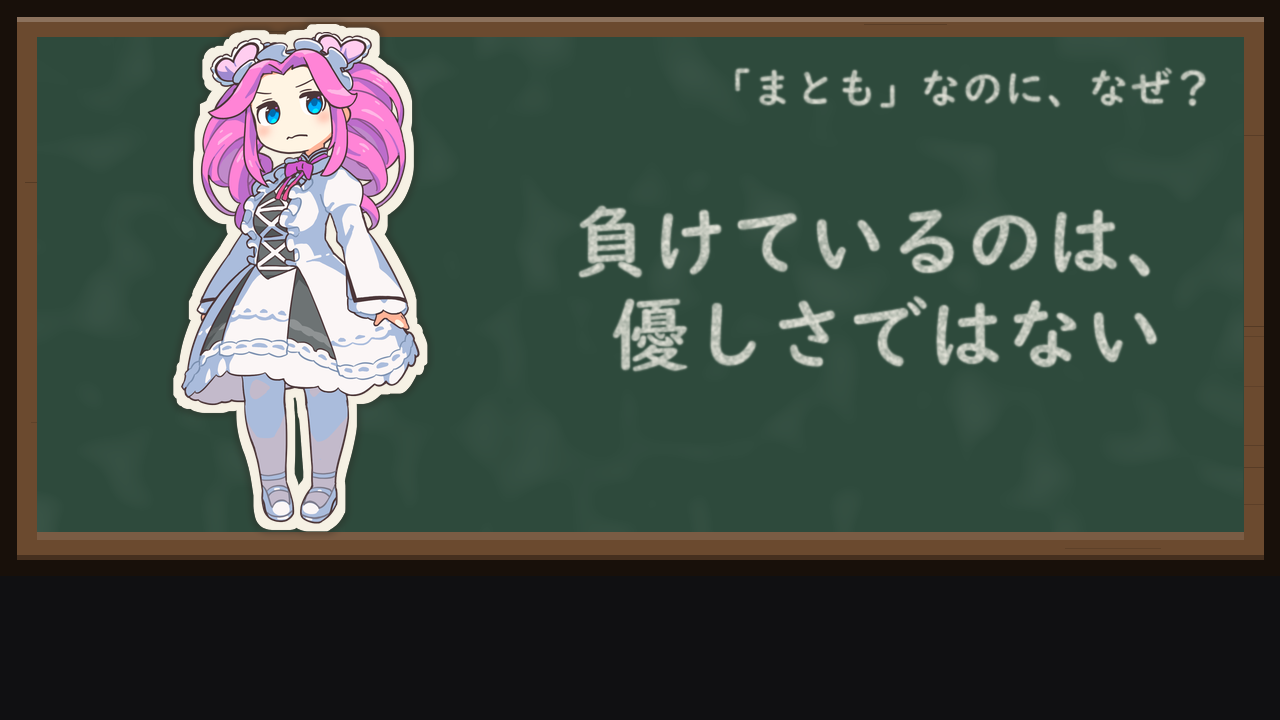
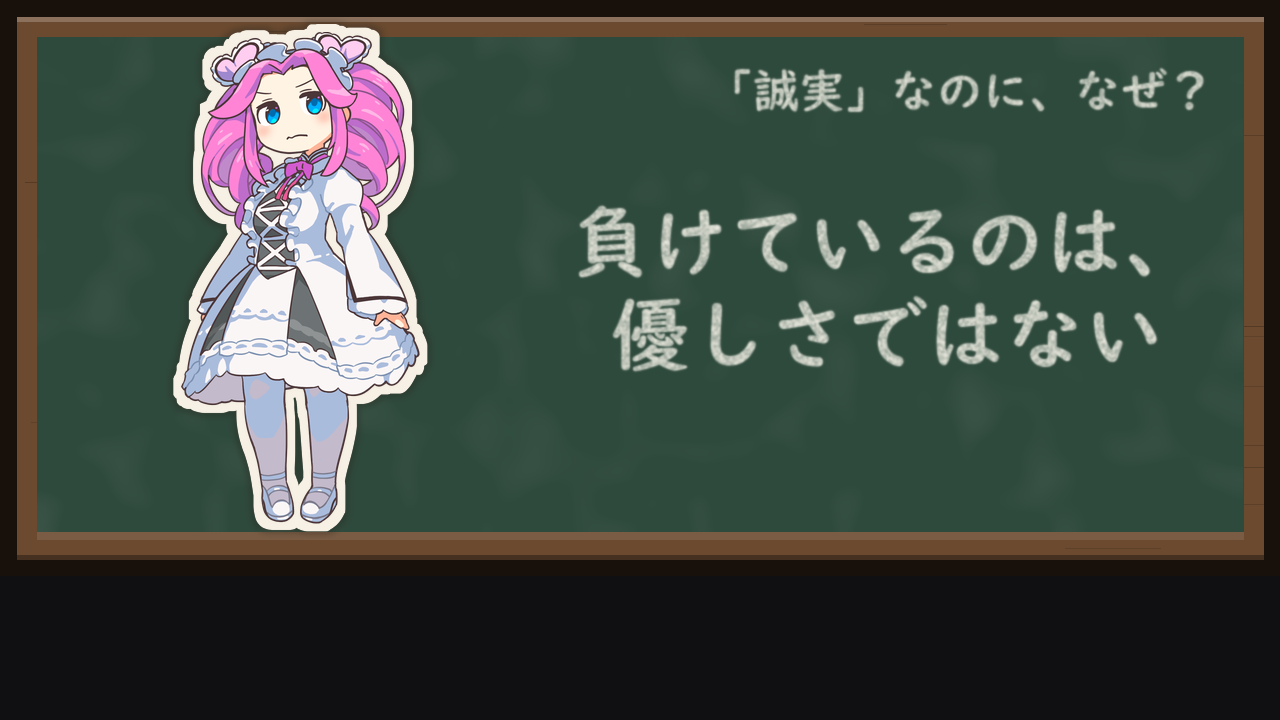
誠実な男性: 概要欄・タグ・サムネを新タイトル「誠実」に更新、出典に Stinson 2022・Hunt 2015 を追加 #34

Changed region(s): [[0.5625, 0.0917, 0.9375, 0.1528]]

diff --git a/publish/20260911-matome-dansei-kamishibai/make_thumbs.py b/publish/20260911-matome-dansei-kamishibai/make_thumbs.py
@@ -1,5 +1,5 @@
 # -*- coding: utf-8 -*-
-"""サムネイル合成スクリプト（"まとも"な男性はモテないのか・紙芝居版, Issue #34）。
+"""サムネイル合成スクリプト（"誠実"な男性はモテないのか・紙芝居版, Issue #34）。
 
 サムネ3案（A/B/C）と比較用コンタクトシートを作る。
 
@@ -162,10 +162,10 @@ def make_thumb_a() -> Image.Image:
     bg = render_board_plate(stage, CFG).convert("RGBA")
     bl, bt, br, bb = stage.board_rect
 
-    # 右上: 小さく「まともなのに、なぜ？」
+    # 右上: 小さく「誠実なのに、なぜ？」
     # チョーク書体（UDDigiKyokashoN）は半角ダブルクオートが開閉とも同じ字形になり
     # 引用符に見えないため、鉤括弧に置き換える。
-    small_text = "「まとも」なのに、なぜ？"
+    small_text = "「誠実」なのに、なぜ？"
     small_size = fit_chalk_size(small_text, max_width=round((br - bl) * 0.42), max_height=round((bb - bt) * 0.10))
     small_x = br - round((br - bl) * 0.02)
     small_layer = chalk_text_layer(small_text, _chalk_font(small_size), color=CHALK_COLOR)
@@ -209,8 +209,8 @@ def make_thumb_b() -> Image.Image:
     darken_band(bg, 0, round(H * 0.30), 0.35)
     darken_band(bg, round(H * 0.66), H, 0.35)
 
-    f1 = fit_bold_font("まともなのに、モテない", max_width=round(W * 0.90), max_height=round(H * 0.19), stroke_width=9)
-    draw_mixed_center(bg, [("まともなのに、モテない", WHITE)], W // 2, round(H * 0.16), f1, stroke_width=9)
+    f1 = fit_bold_font("誠実なのに、モテない", max_width=round(W * 0.90), max_height=round(H * 0.19), stroke_width=9)
+    draw_mixed_center(bg, [("誠実なのに、モテない", WHITE)], W // 2, round(H * 0.16), f1, stroke_width=9)
 
     # 頭肩だけの立ち絵を画面隅に小さく寄せ、中央の帯を文言専用にする（重なり回避）。
     puppet_h = round(H * 0.46)
@@ -222,8 +222,8 @@ def make_thumb_b() -> Image.Image:
     paste(bg, metan, metan_cx - metan.width / 2, head_top_y)
     paste(bg, zun, zun_cx - zun.width / 2, head_top_y)
 
-    f2 = fit_bold_font("負けているのは優しさじゃない", max_width=round(W * 0.66), max_height=round(H * 0.17), stroke_width=9)
-    draw_mixed_center(bg, [("負けているのは優しさじゃない", GOLD)], W // 2, round(H * 0.85), f2, stroke_width=9)
+    f2 = fit_bold_font("誠実さは、伝わるのが遅い", max_width=round(W * 0.66), max_height=round(H * 0.17), stroke_width=9)
+    draw_mixed_center(bg, [("誠実さは、伝わるのが遅い", GOLD)], W // 2, round(H * 0.85), f2, stroke_width=9)
     return bg
 
 
@@ -267,7 +267,7 @@ def draw_ruler(base: Image.Image, x_center: int, top_y: int, height: int, width:
 def make_thumb_c() -> Image.Image:
     bg = vertical_gradient(W, H, (16, 22, 20), (34, 44, 40))
 
-    title1 = '"まとも"に入っていない、'
+    title1 = '"誠実"に入っていない、'
     title2 = "もう一つの目盛り"
     f1 = fit_bold_font(title1, max_width=round(W * 0.92), max_height=round(H * 0.13), stroke_width=8)
     f2 = fit_bold_font(title2, max_width=round(W * 0.92), max_height=round(H * 0.13), stroke_width=8)
